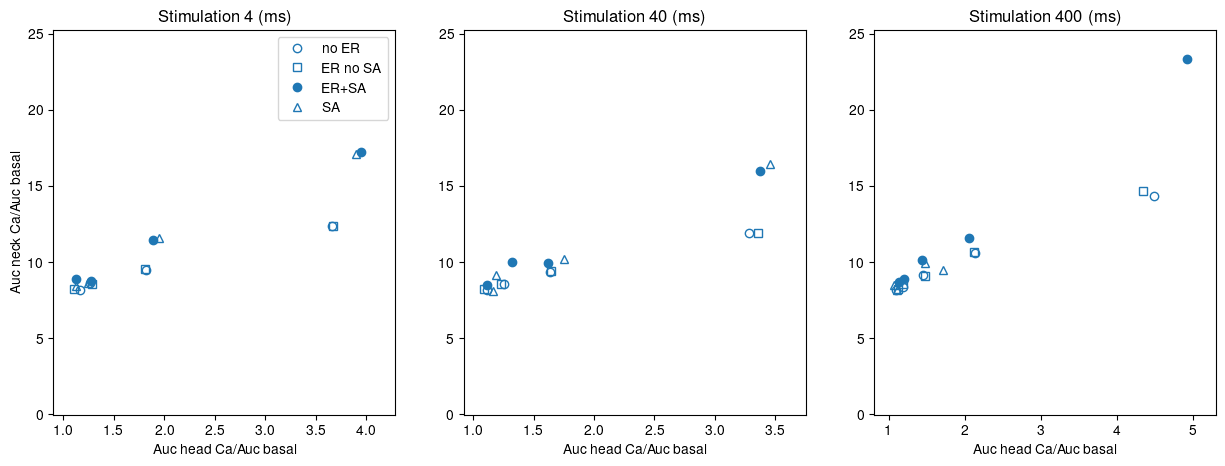
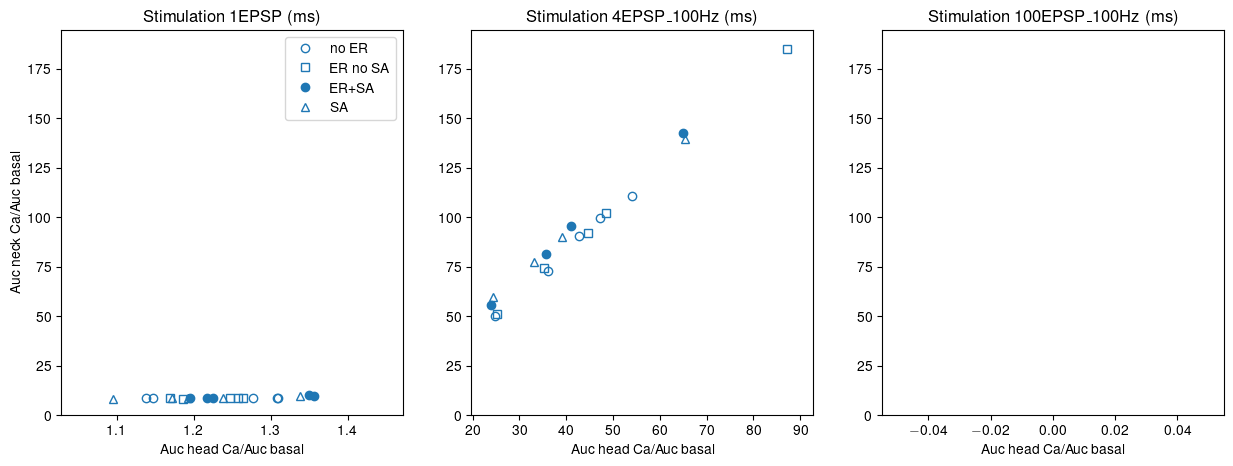
Update figs to new stimulation

diff --git a/scripts/spatial_spread_ER_no_ER.py b/scripts/spatial_spread_ER_no_ER.py
@@ -10,17 +10,17 @@ colors = {"1.2": 'tab:blue',
           "6.0": 'tab:green'}
 
 file_no_ER_ctrl = os.path.join("..", "1_spine_different_Ca_amp",
-                                "model_1.2_um_dend_spine_%s_ms_%s.h5")
+                                "model_1.2_um_dend_spine_%s_%d_stim.h5")
 file_dend_ER_ctrl = os.path.join("..", "1_spine_different_Ca_amp",
-                                  "model_RyR2CaM_1.2_um_dend_spine_%s_ms_%s.h5")
+                                  "model_RyR2CaM_1.2_um_dend_spine_%s_%d_stim.h5")
 file_spine_ER_dend_ER = os.path.join("..", "1_spine_different_Ca_amp",
-                                      "model_RyR2CaM_RyR3CaM_1.2_um_dend_spine_%s_ms_%s.h5")
+                                      "model_RyR2CaM_RyR3CaM_1.2_um_dend_spine_%s_%d_stim.h5")
 file_spine_ER_no_dend_ER = os.path.join("..", "1_spine_different_Ca_amp",
-                                         "model_RyR3CaM_1.2_um_dend_spine_%s_ms_%s.h5")
+                                         "model_RyR3CaM_1.2_um_dend_spine_%s_%d_stim.h5")
 file_dend_ER_dend_Ca = os.path.join("..", "1_spine_different_Ca_amp_Ca_dend",
-                                  "model_Ca_dend_RyR2CaM_1.2_um_dend_spine_%s_ms_%s.h5")
+                                  "model_Ca_dend_RyR2CaM_1.2_um_dend_spine_%s_%d_stim.h5")
 file_spine_ER_dend_ER_dend_Ca = os.path.join("..", "1_spine_different_Ca_amp_Ca_dend",
-                                      "model_Ca_dend_RyR2CaM_RyR3CaM_1.2_um_dend_spine_%s_ms_%s.h5")
+                                      "model_Ca_dend_RyR2CaM_RyR3CaM_1.2_um_dend_spine_%s_%d_stim.h5")
 t_init = 3000
 output = "Ca"
 
@@ -28,9 +28,9 @@ types = ["no ER", "ER no SA", "ER+SA", "SA"]
 markers = ["o", "s", "o", "^"]
 fillstyles = ["none", "none", "full", "none"]
 stim_dict = {
-    "4": ["01750", "03500", "07000", "10500"],
-    "40": ["0175", "0350", "0700", "1050"],
-    "400": ["017.5", "035", "070", "105", "210"],
+    "1EPSP": [1, 5, 10, 15, 20],
+    "4EPSP_100Hz": [1, 5, 10, 15, 20],
+    "100EPSP_100Hz": [1, 5, 10, 15, 20],
 }
 spine_dend = "dend11"
 region_list = ["dend01", "dend02", "dend03", "dend04", "dend05", "dend06", "dend07","dend08", "dend08", "dend09", "dend10",

diff --git a/scripts/max_amp_spine_max_amp_dend_ER_no_ER.py b/scripts/max_amp_spine_max_amp_dend_ER_no_ER.py
@@ -10,22 +10,22 @@ colors = {"1.2": 'tab:blue',
           "6.0": 'tab:green'}
 
 file_no_ER_ctrl = os.path.join("..", "1_spine_different_Ca_amp",
-                                "model_1.2_um_dend_spine_%s_ms_%s.h5")
+                                "model_1.2_um_dend_spine_%s_%d_stim.h5")
 file_dend_ER_ctrl = os.path.join("..", "1_spine_different_Ca_amp",
-                                  "model_RyR2CaM_1.2_um_dend_spine_%s_ms_%s.h5")
+                                  "model_RyR2CaM_1.2_um_dend_spine_%s_%d_stim.h5")
 file_spine_ER_dend_ER = os.path.join("..", "1_spine_different_Ca_amp",
-                                      "model_RyR2CaM_RyR3CaM_1.2_um_dend_spine_%s_ms_%s.h5")
+                                      "model_RyR2CaM_RyR3CaM_1.2_um_dend_spine_%s_%d_stim.h5")
 file_spine_ER_no_dend_ER = os.path.join("..", "1_spine_different_Ca_amp",
-                                         "model_RyR3CaM_1.2_um_dend_spine_%s_ms_%s.h5")
+                                         "model_RyR3CaM_1.2_um_dend_spine_%s_%d_stim.h5")
 t_init = 3000
 output = "Ca"
 types = ["no ER", "ER no SA", "ER+SA", "SA"]
 markers = ["o", "s", "o", "^"]
 fillstyles = ["none", "none", "full", "none"]
 stim_dict = {
-    "4": ["01750", "03500", "07000", "10500"],
-    "40": ["0175", "0350", "0700", "1050"],
-    "400": ["017.5", "035", "070", "105", "210"],
+    "1EPSP": [1, 5, 10, 15, 20],
+    "4EPSP_100Hz": [1, 5, 10, 15, 20],
+    "100EPSP_100Hz": [1, 5, 10, 15, 20],
 }
 spine_dend = "dend11"
 region_list = ["dend01", "dend02", "dend03", "dend04", "dend05", "dend06", "dend07","dend08", "dend08", "dend09", "dend10",

diff --git a/scripts/utility_functions.py b/scripts/utility_functions.py
@@ -427,7 +427,7 @@ def get_distance(conc_dict, dt, t_init, stim_len, spine_idx, rollo=True,
         except ValueError:
             continue
 
-        ca_lim = ca_ctrl+5*ca_std
+        ca_lim = 2.5*ca_ctrl#+5*ca_std
         indices = []
         for j in range(spine_idx, shape):
             
@@ -479,7 +479,7 @@ def get_distance(conc_dict, dt, t_init, stim_len, spine_idx, rollo=True,
 
 
 def get_blob(conc_dict, dt, t_init, stim_len, spine_idx, rollo=True,
-             interval=700):
+             interval=1000):
     
     decays = np.zeros((len(conc_dict), 1))
     shape = conc_dict["trial0"].shape[0]
@@ -592,7 +592,10 @@ def fit_exp(time, ca_conc, dt, duration=2000, t_init=3000, stim_len=3000, spatia
     return popt[1]
 
 
-
+stim_len = {"1EPSP": 0,
+            "4EPSP_100Hz": 0,
+            "100EPSP_100Hz": 0,
+            }
 
 
 def make_distance_figs(directories, stim_dict, output, types, markers,
@@ -639,7 +642,7 @@ def make_distance_figs(directories, stim_dict, output, types, markers,
                     else:
                         auch[j] = head_ca[trial][1, t_start:].sum()/(len(head_ca[trial][1, t_start:])*head_ca[trial][1,:t_start].mean())
                     
-                spread = get_distance(dend_ca, dt, t_init=t_init, stim_len=int(dur),
+                spread = get_distance(dend_ca, dt, t_init=t_init, stim_len=stim_len[dur],
                                       spine_idx=spine_idx)
                 auc_head_m.append(auch.mean())
                 
